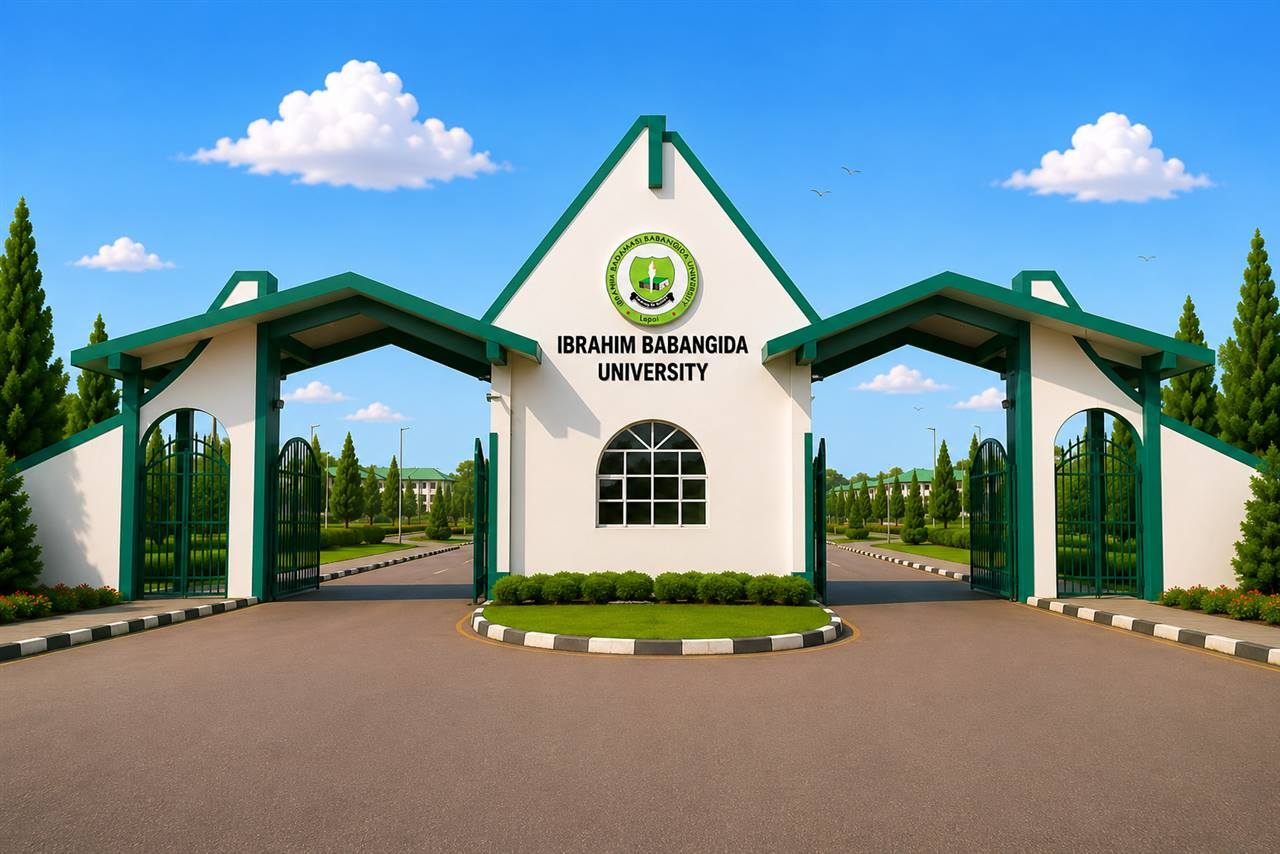
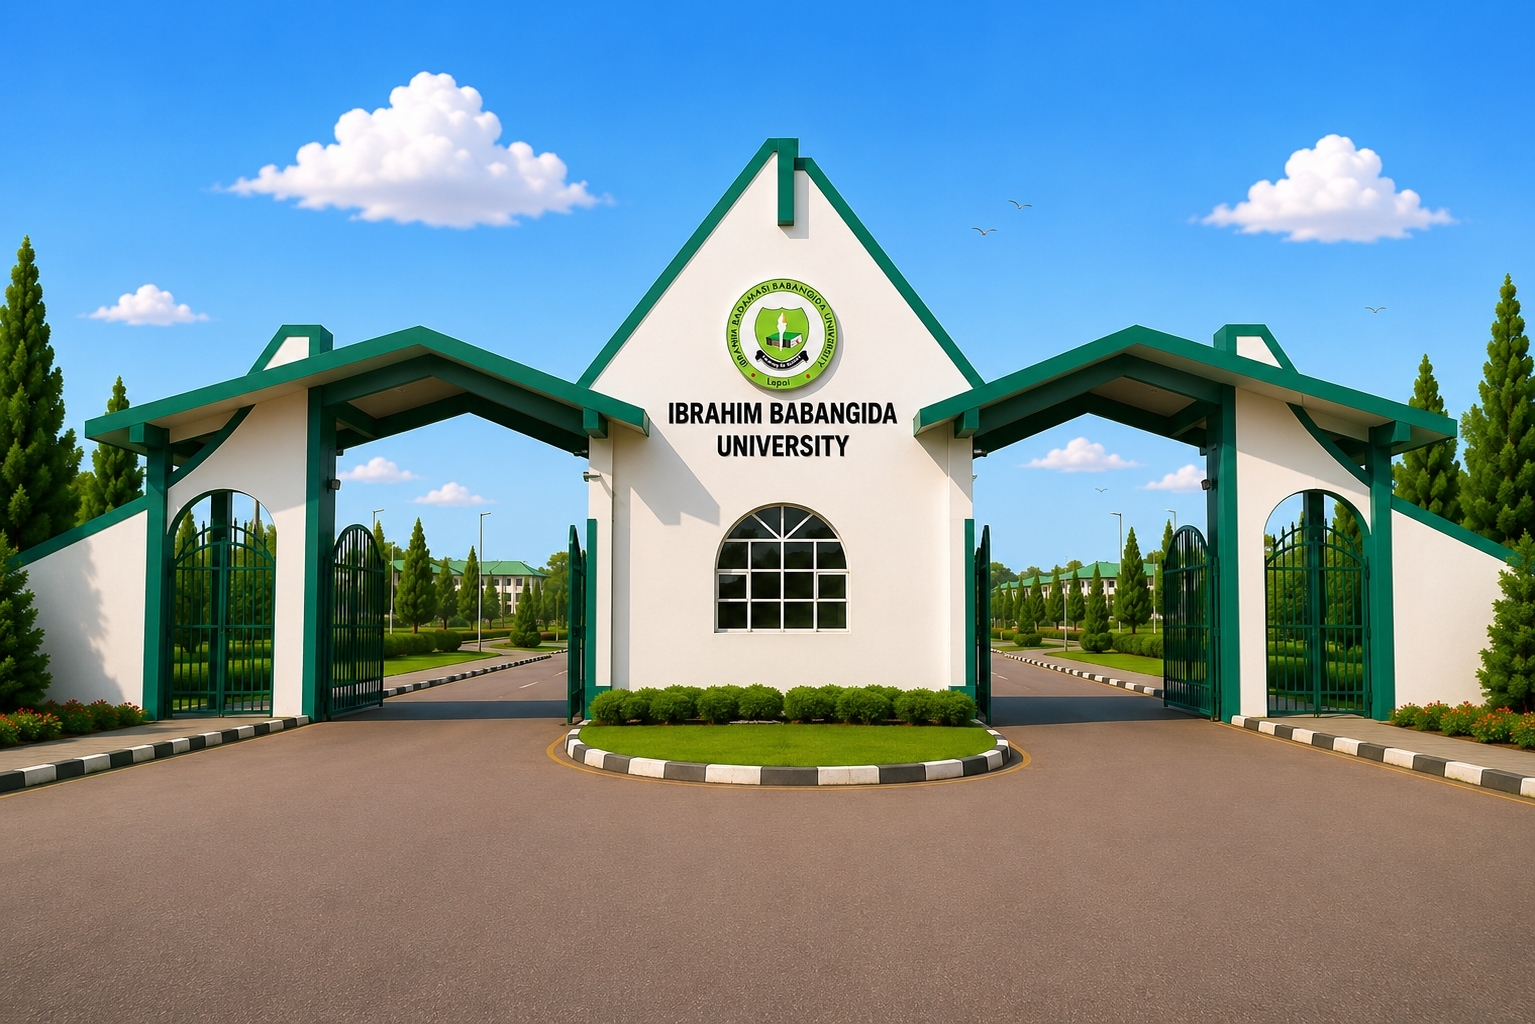
Increase student auth background quality

Changed region(s): [[0.4688, 0.274, 0.5312, 0.3653], [0.8125, 0.5176, 0.8438, 0.548], [0.2188, 0.5176, 0.25, 0.548]]

diff --git a/resources/views/student-login.blade.php b/resources/views/student-login.blade.php
@@ -8,7 +8,7 @@
         rel="preload"
         as="image"
         href="{{ asset('images/ibbu-register-bg-1280.jpg') }}"
-        imagesrcset="{{ asset('images/ibbu-register-bg-768.jpg') }} 768w, {{ asset('images/ibbu-register-bg-1280.jpg') }} 1280w"
+        imagesrcset="{{ asset('images/ibbu-register-bg-768.jpg') }} 1280w, {{ asset('images/ibbu-register-bg-1280.jpg') }} 1535w"
         imagesizes="100vw"
     >
 

diff --git a/resources/views/student-register.blade.php b/resources/views/student-register.blade.php
@@ -8,7 +8,7 @@
         rel="preload"
         as="image"
         href="{{ asset('images/ibbu-register-bg-1280.jpg') }}"
-        imagesrcset="{{ asset('images/ibbu-register-bg-768.jpg') }} 768w, {{ asset('images/ibbu-register-bg-1280.jpg') }} 1280w"
+        imagesrcset="{{ asset('images/ibbu-register-bg-768.jpg') }} 1280w, {{ asset('images/ibbu-register-bg-1280.jpg') }} 1535w"
         imagesizes="100vw"
     >
 